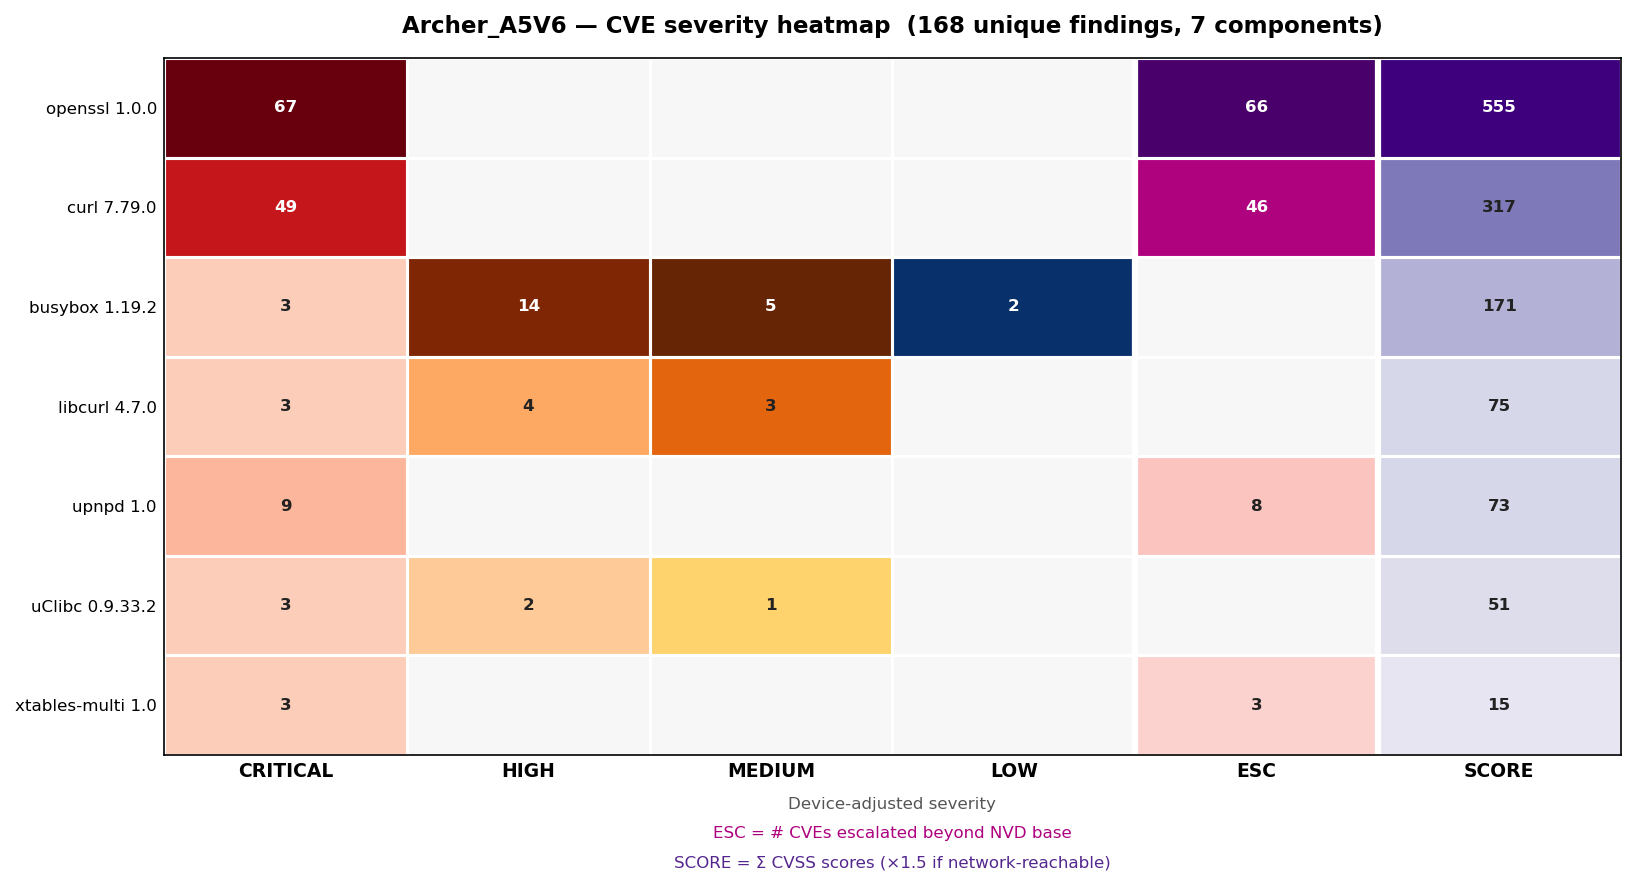
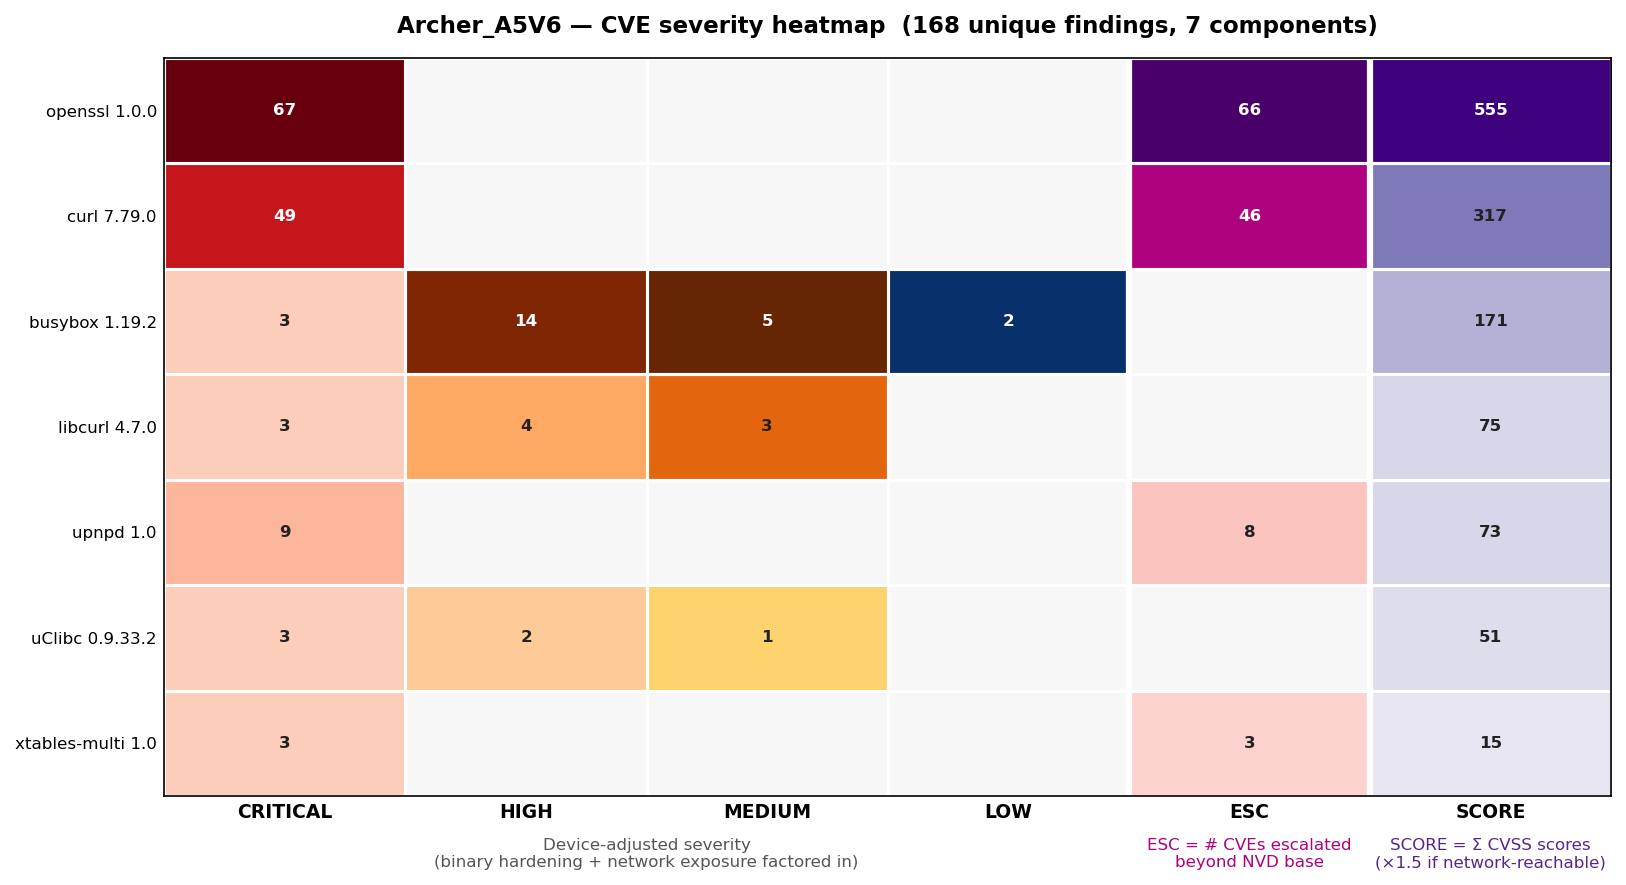
Reposition heatmap x-axis labels under their respective column groups
Each annotation now sits centred under its own column block rather than
all stacked at x=0.5: severity label under CRITICAL–LOW, ESC label under
ESC, SCORE label under SCORE. Added brief reason to the severity label.

diff --git a/firmware_analysis/reporting/heatmap.py b/firmware_analysis/reporting/heatmap.py
@@ -209,16 +209,27 @@ def _draw(
         f"{firmware_id} — CVE severity heatmap  ({total} unique findings, {n_rows} components)",
         fontsize=11, fontweight="bold", pad=12,
     )
-    _annotate = dict(
-        xy=(0.5, 0), xycoords="axes fraction",
-        textcoords="offset points", ha="center", va="top", fontsize=8,
+    # x-centres in axes-fraction for each column group.
+    sev_x   = n_sev_cols / (2 * n_cols)        # centre of CRITICAL…LOW block
+    esc_x   = (n_sev_cols + 0.5) / n_cols      # ESC column
+    score_x = (n_sev_cols + 1.5) / n_cols      # SCORE column
+
+    _ann = dict(
+        xycoords="axes fraction", textcoords="offset points",
+        ha="center", va="top", fontsize=8,
     )
-    ax.annotate("Device-adjusted severity",
-                xytext=(0, -20), color="#555555", **_annotate)
-    ax.annotate("ESC = # CVEs escalated beyond NVD base",
-                xytext=(0, -34), color="#ae017e", **_annotate)
-    ax.annotate("SCORE = Σ CVSS scores (×1.5 if network-reachable)",
-                xytext=(0, -48), color="#54278f", **_annotate)
+    ax.annotate(
+        "Device-adjusted severity\n(binary hardening + network exposure factored in)",
+        xy=(sev_x, 0), xytext=(0, -20), color="#555555", **_ann,
+    )
+    ax.annotate(
+        "ESC = # CVEs escalated\nbeyond NVD base",
+        xy=(esc_x, 0), xytext=(0, -20), color="#ae017e", **_ann,
+    )
+    ax.annotate(
+        "SCORE = Σ CVSS scores\n(×1.5 if network-reachable)",
+        xy=(score_x, 0), xytext=(0, -20), color="#54278f", **_ann,
+    )
 
     plt.tight_layout()
     fig.savefig(out_path, dpi=150, bbox_inches="tight")
